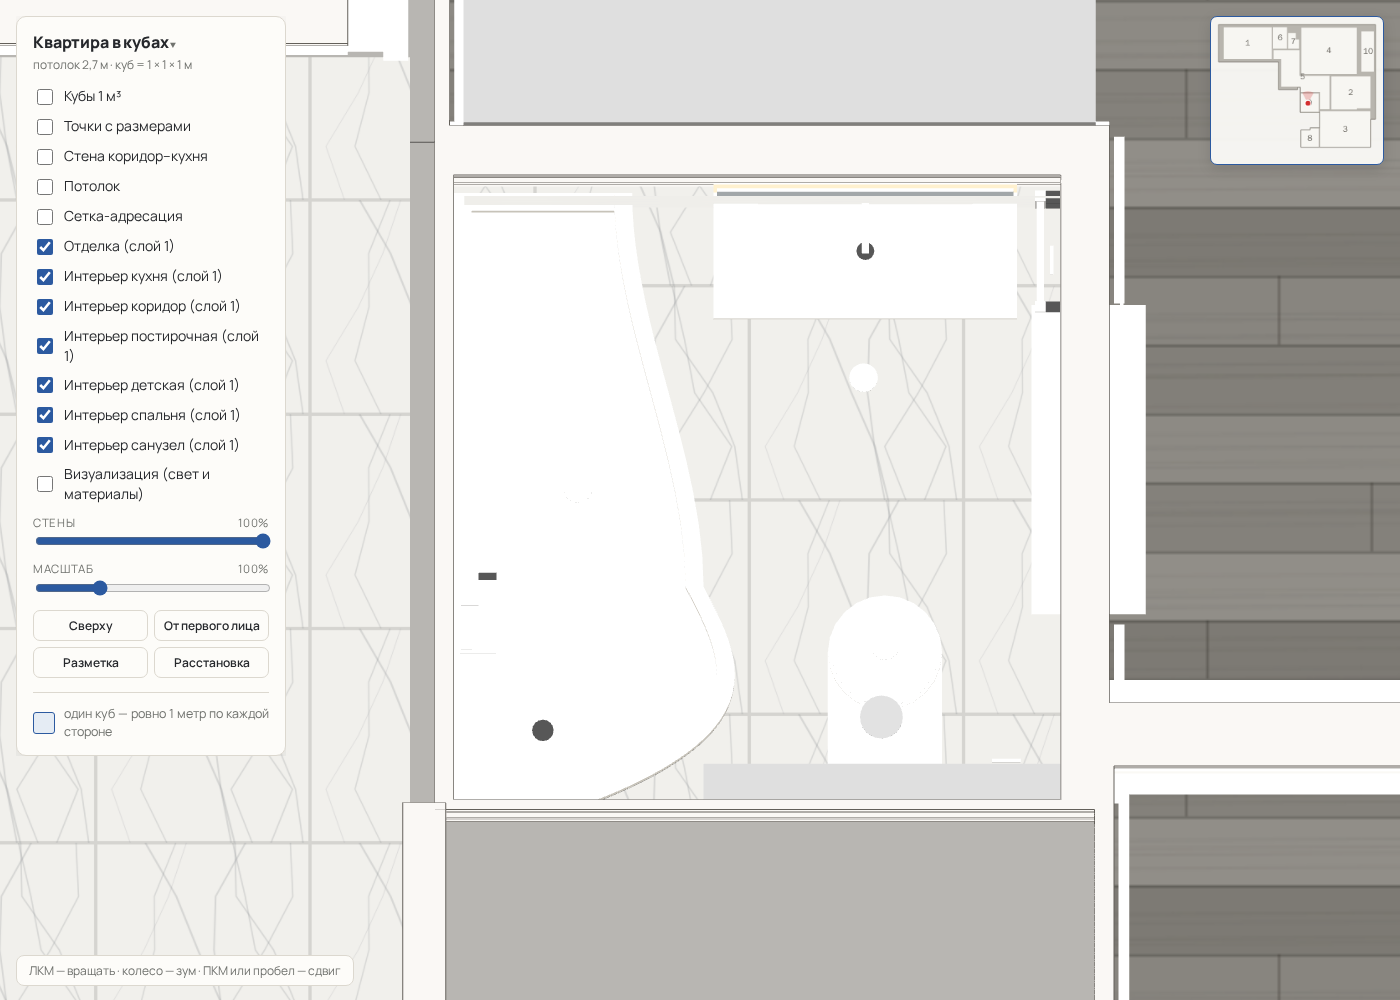
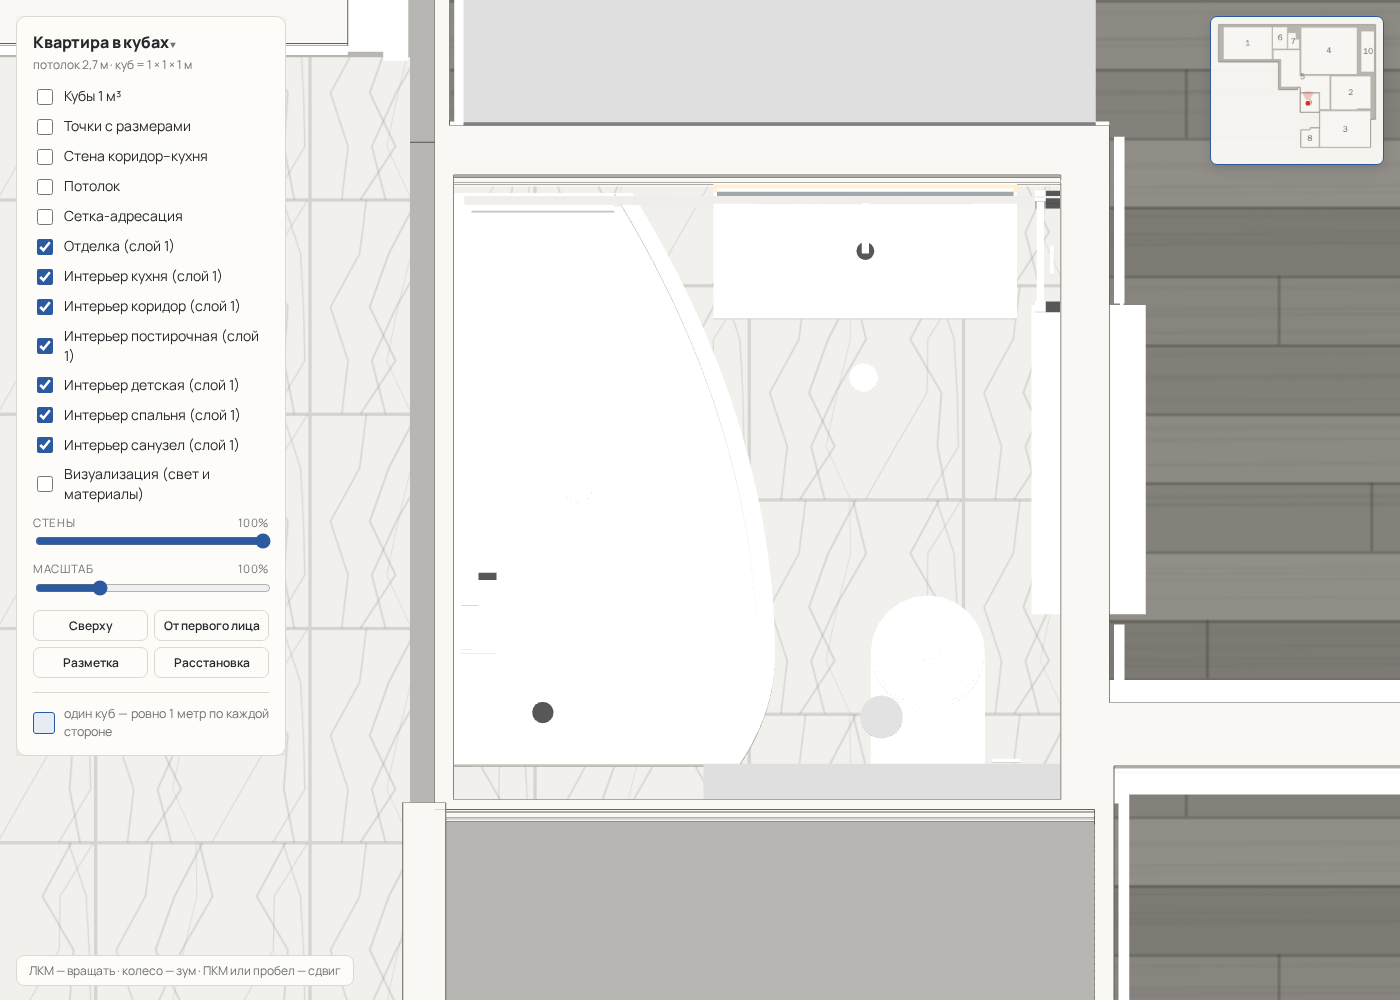
bath9: convex parabola tub 1.60 up to 0.90 wide, passage check as free depth

diff --git a/items.js b/items.js
@@ -303,34 +303,34 @@ const PHYS={}; // id → boxes
     // ---- bathroom 9 (tasks/bath9/README.md, marks M1–M18 mirrored across the door axis z 8.997; grey materials only) ----
     // Room box: x 8.172–9.872, z 8.122–9.872, door on the east wall z 8.55–9.25. Basin, mirror and towel rail on the north side,
     // cistern box and toilet on the south. Tiles sit 0.02 in front of the walls, so wall-mounted parts start at wall+0.02.
-    // The passage strip x 8.872–9.872 × z 8.55–9.25 must stay empty (check.js).
-    {id:'tub',type:'ванна акриловая каплевидная 1.70 вдоль западной стены: 0.50 у северного торца, выпуклость 0.79 к унитазу, крутой скруглённый южный конец 0.40',room:9,layer:'bath',pos:[8.172,8.147],rot:0,size:[0.80,0.58,1.70],fixed:'wall',
+    // The passage strip x 8.872–9.872 × z 8.55–9.25 stays empty except the tub, which ends it (free depth ≥ 0.80, check.js).
+    {id:'tub',type:'ванна акриловая каплевидная 1.60 вдоль западной стены: северный торец 0.50, выпуклый контур до 0.90 к унитазу, южный торец 0.80 у короба',room:9,layer:'bath',pos:[8.172,8.147],rot:0,size:[0.90,0.58,1.60],fixed:'wall',
      build(b,g){
-       const L=1.70, W=0.05;
-       // outer edge width from the wall: smooth 0.50→0.70 up to the strip edge Z0 (≤ 0.70 inside the passage strip), then a bulge
-       // to 0.79 towards the toilet that drops steeply to 0.40 at the south end
-       const Z0=1.103, wo=z=>{ if(z<=Z0){ const s=z/Z0; return 0.50+0.20*s*s*(3-2*s); } const t=(z-Z0)/(L-Z0); return 0.70+0.10*Math.sin(Math.PI*t)-0.30*t**4; };
+       const L=1.60, W=0.05, ZP=1.30;
+       // outer edge width from the wall: one parabola peaking at 0.90 (z 1.30) — a convex outline with no humps; it reaches
+       // ≈0.89 at the passage strip edge, so the tub is the end of the passage (check.js: free depth to the tub ≥ 0.80)
+       const wo=z=>0.90-(z<=ZP?0.2367:1.11)*(z-ZP)**2;
        const wi=z=>wo(z)-W;
-       // one extruded polygon per z-slice between xl(z) and xr(z), lifted to y0..y1; slice edges match the passage strip so
-       // every part box inside the strip stays ≤ 0.70 wide (walk collisions and the check use per-part boxes)
+       // one extruded polygon per z-slice between xl(z) and xr(z), lifted to y0..y1; slice edges at the strip edge and the
+       // peak keep per-part boxes tight (walk collisions and the checks use per-part boxes)
        const slice=(z0,z1,xl,xr,y0,y1,m)=>{ const sh=new THREE.Shape(), n=8, zs=i=>z0+(z1-z0)*i/n;
          sh.moveTo(xl(z0),-z0); for(let i=0;i<=n;i++) sh.lineTo(xr(zs(i)),-zs(i)); for(let i=n;i>=0;i--) sh.lineTo(xl(zs(i)),-zs(i));
          const mesh=new THREE.Mesh(new THREE.ExtrudeGeometry(sh,{depth:y1-y0,bevelEnabled:false}),m); mesh.rotation.x=-Math.PI/2; mesh.position.y=y0; g.add(mesh); };
-       const edges=[0,0.403,Z0,1.30,1.50,1.60,L];
+       const edges=[0,0.403,1.103,ZP,1.45,L];
        for(let i=0;i<edges.length-1;i++){ const [z0,z1]=[edges[i],edges[i+1]];
          slice(z0,z1,wi,wo,0.12,0.58,mat.kmat);                                                       // curved shell wall
          slice(z0,z1,()=>W,wi,0.12,0.15,mat.kmat);                                                    // bottom at 0.12
          slice(z0,z1,()=>0,wo,0,0.12,mat.body); }                                                    // blind apron under the rim
        b(0,W,0.12,0.58,0,L,mat.kmat); b(W,wi(0),0.12,0.58,0,W,mat.kmat); b(W,wi(L),0.12,0.58,L-W,L,mat.kmat); // wall side and the two straight ends
-       const d=new THREE.Mesh(new THREE.CylinderGeometry(0.03,0.03,0.005,16),mat.handle); d.position.set(0.25,0.152,1.50); g.add(d); // drain at the south end, by the mixer
+       const d=new THREE.Mesh(new THREE.CylinderGeometry(0.03,0.03,0.005,16),mat.handle); d.position.set(0.25,0.152,1.45); g.add(d); // drain at the south end, by the mixer
      }},
     {id:'tubmixer',type:'смеситель ванны настенный, излив 0.20',room:9,layer:'bath',pos:[8.192,9.124],rot:0,size:[0.20,0.86,0.20],fixed:'wall',
      build(b){ b(0,0.05,0.75,0.85,0.02,0.18,mat.lamp); b(0.05,0.20,0.78,0.80,0.09,0.11,mat.lamp); b(0.05,0.10,0.85,0.86,0.09,0.11,mat.handle); }}, // body, spout, lever
     {id:'shower',type:'душевая штанга 0.90 с лейкой, шланг к смесителю',room:9,layer:'bath',pos:[8.192,9.374],rot:0,size:[0.10,2.05,0.10],fixed:'wall',
      build(b){ b(0.03,0.05,1.15,2.05,0.04,0.06,mat.lamp); [1.15,2.02].forEach(y=>b(0,0.03,y,y+0.03,0.03,0.07,mat.lamp)); b(0.03,0.10,1.98,2.02,0.02,0.08,mat.lamp); }}, // rod, two holders, hand shower on the top holder
     {id:'wcbox',type:'короб инсталляции 1.00×0.12 вдоль южной стены, верх 1.15 — полка; кнопка смыва на фасаде',room:9,layer:'bath',pos:[8.872,9.747],rot:0,size:[1.00,1.15,0.125],fixed:'wall',
-     build(b){ b(0,1.0,0,1.15,0.005,0.125,mat.body); b(0.43,0.59,0.96,1.04,0,0.005,mat.lamp); }},                 // box, flush plate on the toilet axis (x 9.38)
-    {id:'wc',type:'унитаз подвесной компактный 0.36×0.48, сиденье 0.42, фасад на север',room:9,layer:'bath',pos:[9.20,9.272],rot:0,size:[0.36,0.42,0.48],fixed:'wall',
+     build(b){ b(0,1.0,0,1.15,0.005,0.125,mat.body); b(0.55,0.71,0.96,1.04,0,0.005,mat.lamp); }},                 // box, flush plate on the toilet axis (x 9.50)
+    {id:'wc',type:'унитаз подвесной компактный 0.36×0.48, сиденье 0.42, фасад на север',room:9,layer:'bath',pos:[9.32,9.272],rot:0,size:[0.36,0.42,0.48],fixed:'wall',
      build(b,g){
        const cyl=(r,h,y,m)=>{ const c=new THREE.Mesh(new THREE.CylinderGeometry(r,r,h,24),m); c.position.set(0.18,y,0.16); g.add(c); };
        b(0.02,0.34,0.20,0.40,0.16,0.48,mat.kmat); cyl(0.16,0.20,0.30,mat.kmat);                     // bowl: box at the back, round front to z 0
@@ -358,7 +358,7 @@ const PHYS={}; // id → boxes
     // ceiling: three IP44 spots Ø0.08 and the extractor fan Ø0.12 above the cistern box
     {id:'spot1',type:'точечный светильник над ванной, IP44',room:9,layer:'bath',pos:[8.48,8.96],rot:0,size:[0.08,2.70,0.08],fixed:'wall',
      build(b,g){ const c=new THREE.Mesh(new THREE.CylinderGeometry(0.04,0.04,0.02,24),mat.lamp); c.position.set(0.04,2.69,0.04); g.add(c); }},
-    {id:'spot2',type:'точечный светильник над унитазом',room:9,layer:'bath',pos:[9.34,9.40],rot:0,size:[0.08,2.70,0.08],fixed:'wall',
+    {id:'spot2',type:'точечный светильник над унитазом',room:9,layer:'bath',pos:[9.46,9.40],rot:0,size:[0.08,2.70,0.08],fixed:'wall',
      build(b,g){ const c=new THREE.Mesh(new THREE.CylinderGeometry(0.04,0.04,0.02,24),mat.lamp); c.position.set(0.04,2.69,0.04); g.add(c); }},
     {id:'spot3',type:'точечный светильник перед зеркалом',room:9,layer:'bath',pos:[9.28,8.65],rot:0,size:[0.08,2.70,0.08],fixed:'wall',
      build(b,g){ const c=new THREE.Mesh(new THREE.CylinderGeometry(0.04,0.04,0.02,24),mat.lamp); c.position.set(0.04,2.69,0.04); g.add(c); }},

diff --git a/tools/check.js b/tools/check.js
@@ -435,7 +435,7 @@ const { chromium } = require('playwright');
     await page.screenshot({ path: path.join(outDir, name + '.png') });
   }
   // bath9: door 0.70 at z 8.55–9.25 (plan + tile cutout agree), the passage strip x 8.872–9.872 × z 8.55–9.25 × 0–2.10 is
-  // free of every part box (tolerance 1e-6, float noise only), toilet axis ≥ 0.35 from the tub rim and the east wall, items inside room 9
+  // free of every part box except the tub, which ends the passage (free depth from the east wall to the tub ≥ 0.80), toilet axis ≥ 0.35 from the tub rim and the east wall, items inside room 9
   // (the corridor switch inside room 5), no layout warnings, grey materials
   const b9 = await page.evaluate(() => {
     const its = ITEMS.filter(it => it.layer === 'bath'), bb = o => new THREE.Box3().setFromObject(o);
@@ -444,16 +444,18 @@ const { chromium } = require('playwright');
     const inside = its.filter(it => { const r = PLAN.rooms.find(q => q.id === it.room), xs = r.poly.map(q => q[0]), zs = r.poly.map(q => q[1]); const b = bb(ITEM_GROUPS[it.id]);
       return b.min.x < Math.min(...xs) - 0.001 || b.max.x > Math.max(...xs) + 0.001 || b.min.z < Math.min(...zs) - 0.001 || b.max.z > Math.max(...zs) + 0.001; }).map(it => it.id);
     const strip = new THREE.Box3(new THREE.Vector3(8.872, 0, 8.55), new THREE.Vector3(9.872, 2.1, 9.25));
-    const inStrip = its.filter(it => it.room === 9 && PHYS[it.id].some(m => { const b = bb(m); const e = 1e-6; return b.min.x < strip.max.x - e && b.max.x > strip.min.x + e && b.min.z < strip.max.z - e && b.max.z > strip.min.z + e && b.min.y < strip.max.y; })).map(it => it.id);
+    const inStrip = its.filter(it => it.room === 9 && it.id !== 'tub' && PHYS[it.id].some(m => { const b = bb(m); const e = 1e-6; return b.min.x < strip.max.x - e && b.max.x > strip.min.x + e && b.min.z < strip.max.z - e && b.max.z > strip.min.z + e && b.min.y < strip.max.y; })).map(it => it.id);
     const wc = bb(ITEM_GROUPS.wc), tub = bb(ITEM_GROUPS.tub), axis = (wc.min.x + wc.max.x) / 2;
+    const tubDepth = 9.872 - Math.max(...PHYS.tub.map(m => bb(m)).filter(b => b.min.z < strip.max.z && b.max.z > strip.min.z).map(b => b.max.x));
     const warn = its.map(it => [it.id, LAY.warnings(it.id)]).filter(([, w]) => w.length).map(([id, w]) => id + ': ' + w.join('; '));
     const colored = []; its.forEach(it => ITEM_GROUPS[it.id].traverse(o => { if (!o.isMesh || o.material.isMeshBasicMaterial || o.material.transparent) return; const c = o.material.color; if (Math.max(c.r, c.g, c.b) - Math.min(c.r, c.g, c.b) > 0.08 && !colored.includes(it.id)) colored.push(it.id); }));
-    return { n: its.length, doorOk, inside, inStrip, axisTub: axis - tub.max.x, axisWall: 9.872 - axis, wcFront: wc.max.z, warn, colored };
+    return { n: its.length, doorOk, inside, inStrip, axisTub: axis - tub.max.x, axisWall: 9.872 - axis, wcFront: wc.max.z, tubDepth, warn, colored };
   });
   if (b9.n < 17) problems.push('санузел 9: предметов слоя bath ' + b9.n + ' (< 17)');
   if (!b9.doorOk) problems.push('санузел 9: дверь не 0.70 на z 8.55–9.25 или вырез плитки не совпал');
   if (b9.inside.length) problems.push('санузел 9: предметы вне помещения: ' + b9.inside.join(', '));
   if (b9.inStrip.length) problems.push('санузел 9: в полосе прохода: ' + b9.inStrip.join(', '));
+  if (b9.tubDepth < 0.8) problems.push('санузел 9: от двери до ванны ' + b9.tubDepth.toFixed(2) + ' (< 0.80)');
   if (b9.axisTub < 0.35 || b9.axisWall < 0.35) problems.push('санузел 9: ось унитаза ближе 0.35: до ванны ' + b9.axisTub.toFixed(3) + ', до стены ' + b9.axisWall.toFixed(3));
   if (b9.warn.length) problems.push('санузел 9: предупреждения расстановки:\n    ' + b9.warn.join('\n    '));
   if (b9.colored.length) problems.push('санузел 9: цветные материалы у ' + b9.colored.join(', '));

diff --git a/tasks/bath9/README.md b/tasks/bath9/README.md
@@ -255,3 +255,12 @@ ID новых предметов: `tub` (M1), `tubscreen` (M2), `tubmixer` (M3),
   полосой прохода, так что боксы деталей в полосе не шире 0.70.
 - Унитаз сдвинут на 0.11 к востоку (ось x 9.38: 0.42 от выпуклости ванны, 0.49 до восточной стены) — иначе ось была
   в 0.26 от борта. Кнопка смыва и спот над унитазом — по новой оси.
+
+## Итерация 3 (2026-09-06): ванна вместительнее, без горбов
+
+- Контур ванны — одна парабола: северный торец 0.50, пик 0.90 на z 9.447, южный торец 0.80 у фасада короба
+  (чаша 1.60, z 8.147–9.747). Контур выпуклый, перегибов нет.
+- Такая форма заходит в полосу прохода (до x 9.06 у южного края проёма). Ванна — конец прохода, а не боковое
+  препятствие, поэтому проверка (а) теперь: все предметы кроме ванны вне полосы, а свободная глубина от восточной
+  стены до ванны в полосе ≥ 0.80 (сейчас 0.81).
+- Унитаз сдвинут ещё на 0.12 к востоку: ось x 9.50 — 0.43 от борта ванны, 0.37 до восточной стены. Кнопка и спот по оси.
